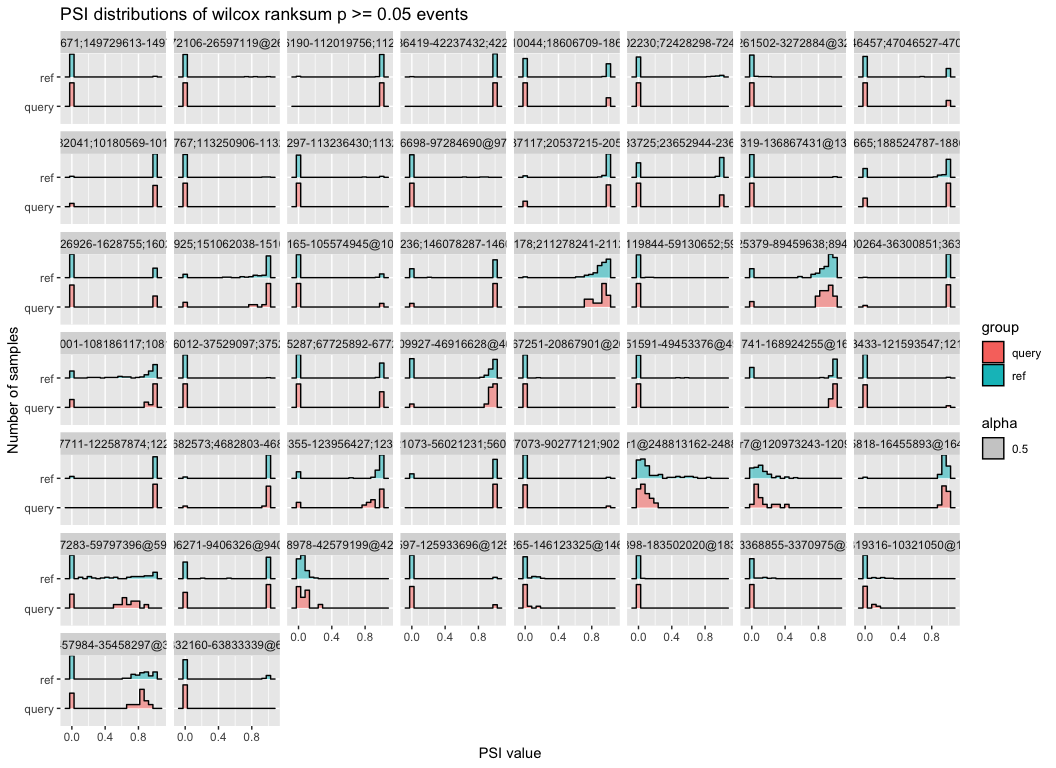
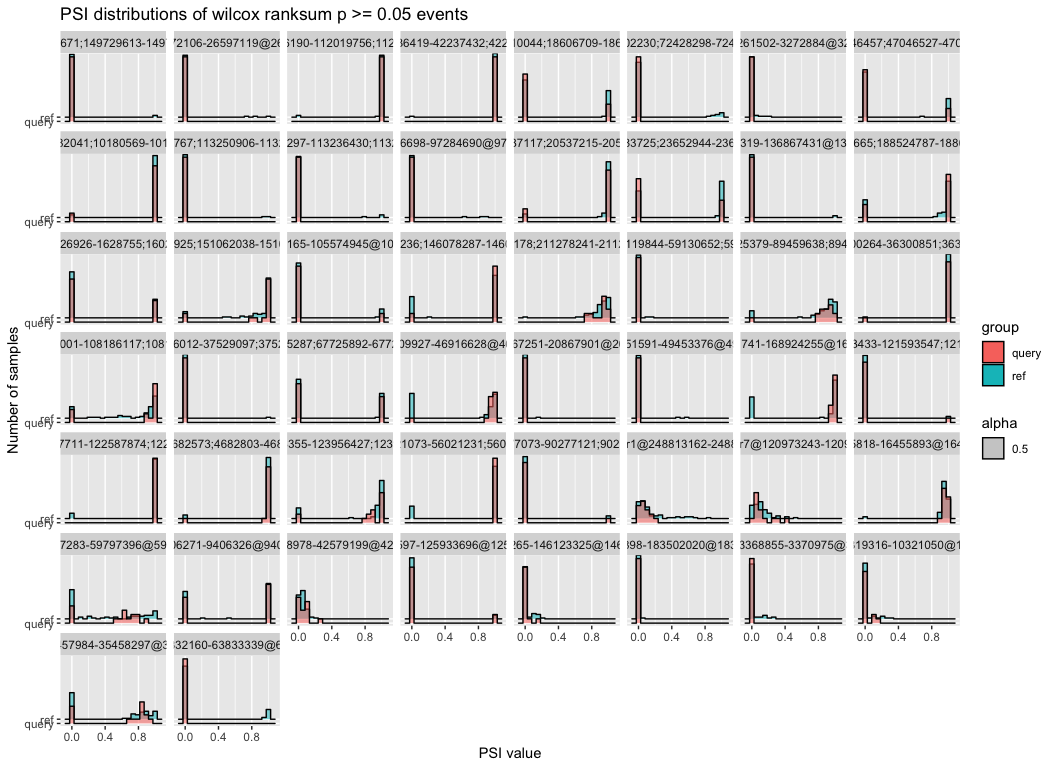
update with ridgeline plots instead of density

diff --git a/exploration/compare_psi_distributions/test-wilcoxon-on-target.md b/exploration/compare_psi_distributions/test-wilcoxon-on-target.md
@@ -1,6 +1,6 @@
 # Test Wilcoxon ranksums on TARGET subset
 Cindy Liang (celiang@ucsc.edu)
-2026-03-05
+2026-03-06
 
 ## Set up
 
@@ -161,7 +161,7 @@ long_fail_wilcox <- fail_wilcox_test_events |>
     group = stringr::str_split_i(sample, "_", i = 3))
 
 ggplot(long_fail_wilcox, aes(x = PSI, y = group, fill = group, alpha = 0.5)) +
-  ggridges::geom_density_ridges(stat = "binline", bins = 20, scale = 0.8) + 
+  ggridges::geom_ridgeline(stat = "binline", bins = 20, scale = 0.8) + 
   facet_wrap(~ pos_id) + 
   labs(title = "PSI distributions of wilcox ranksum p >= 0.05 events",
        x = "PSI value",
@@ -199,7 +199,7 @@ long_succeed_wilcox <- succeed_wilcox_test_events |>
     group = stringr::str_split_i(sample, "_", i = 3))
 
 ggplot(long_succeed_wilcox, aes(x = PSI, y = group, fill = group, alpha = 0.5)) +
-  ggridges::geom_density_ridges(stat = "binline", bins = 20, scale = 0.8) + 
+  ggridges::geom_ridgeline(stat = "binline", bins = 20, scale = 0.8) + 
   facet_wrap(~ pos_id) + 
   labs(title = "PSI distributions of wilcox ranksum p < 0.05 events",
        x = "PSI value",
